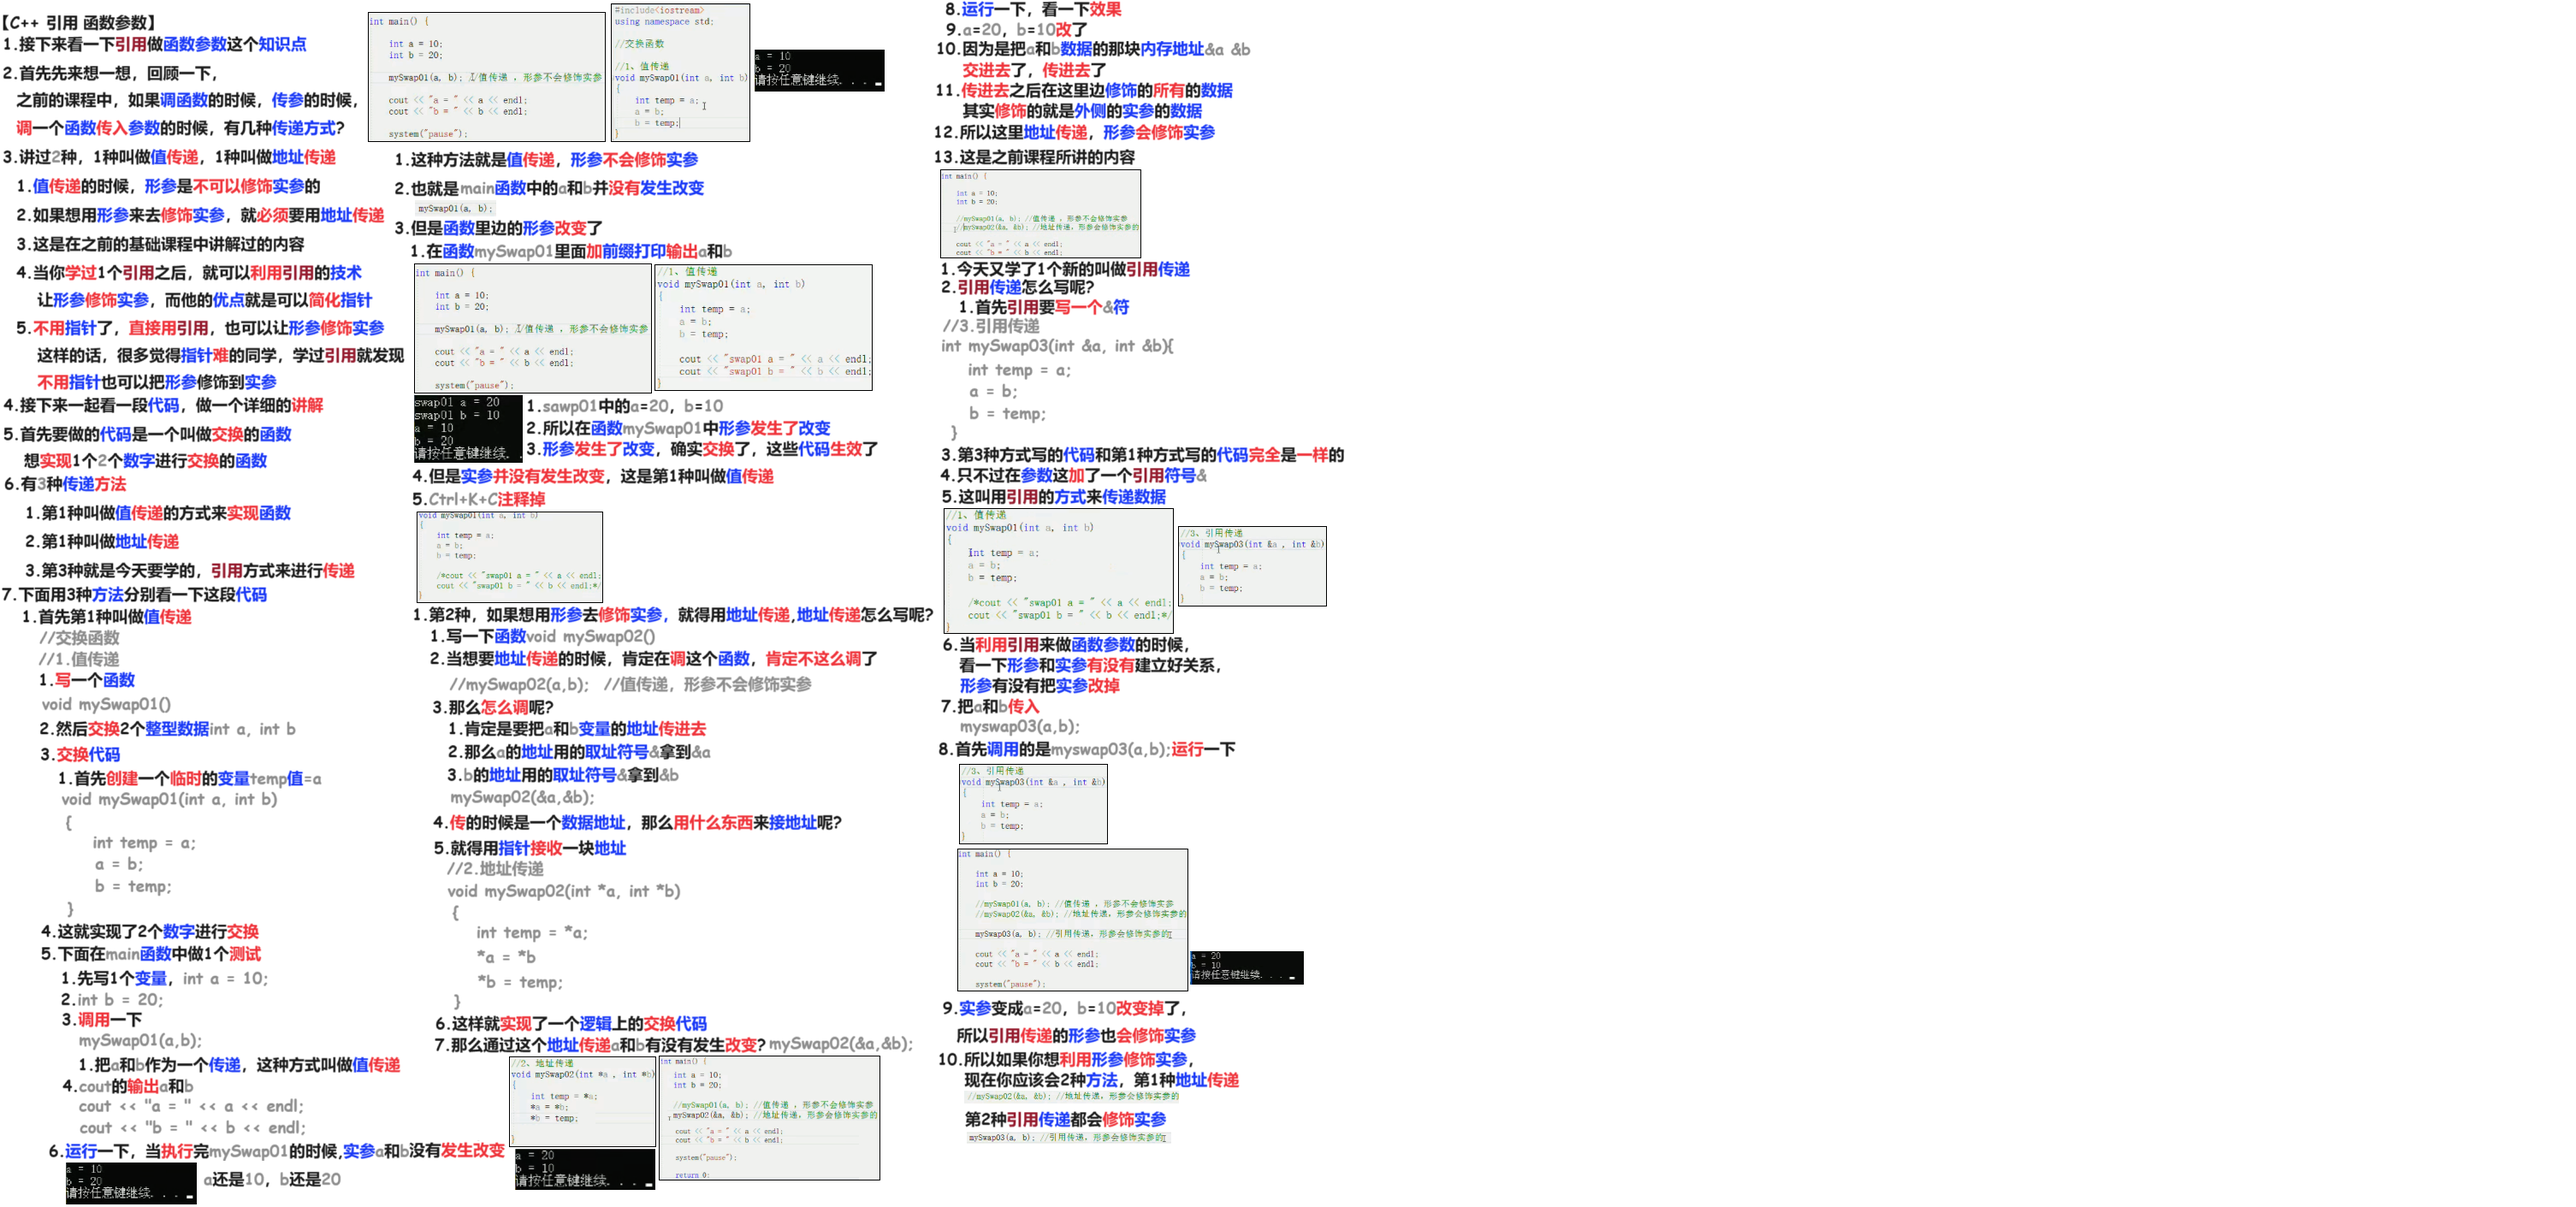
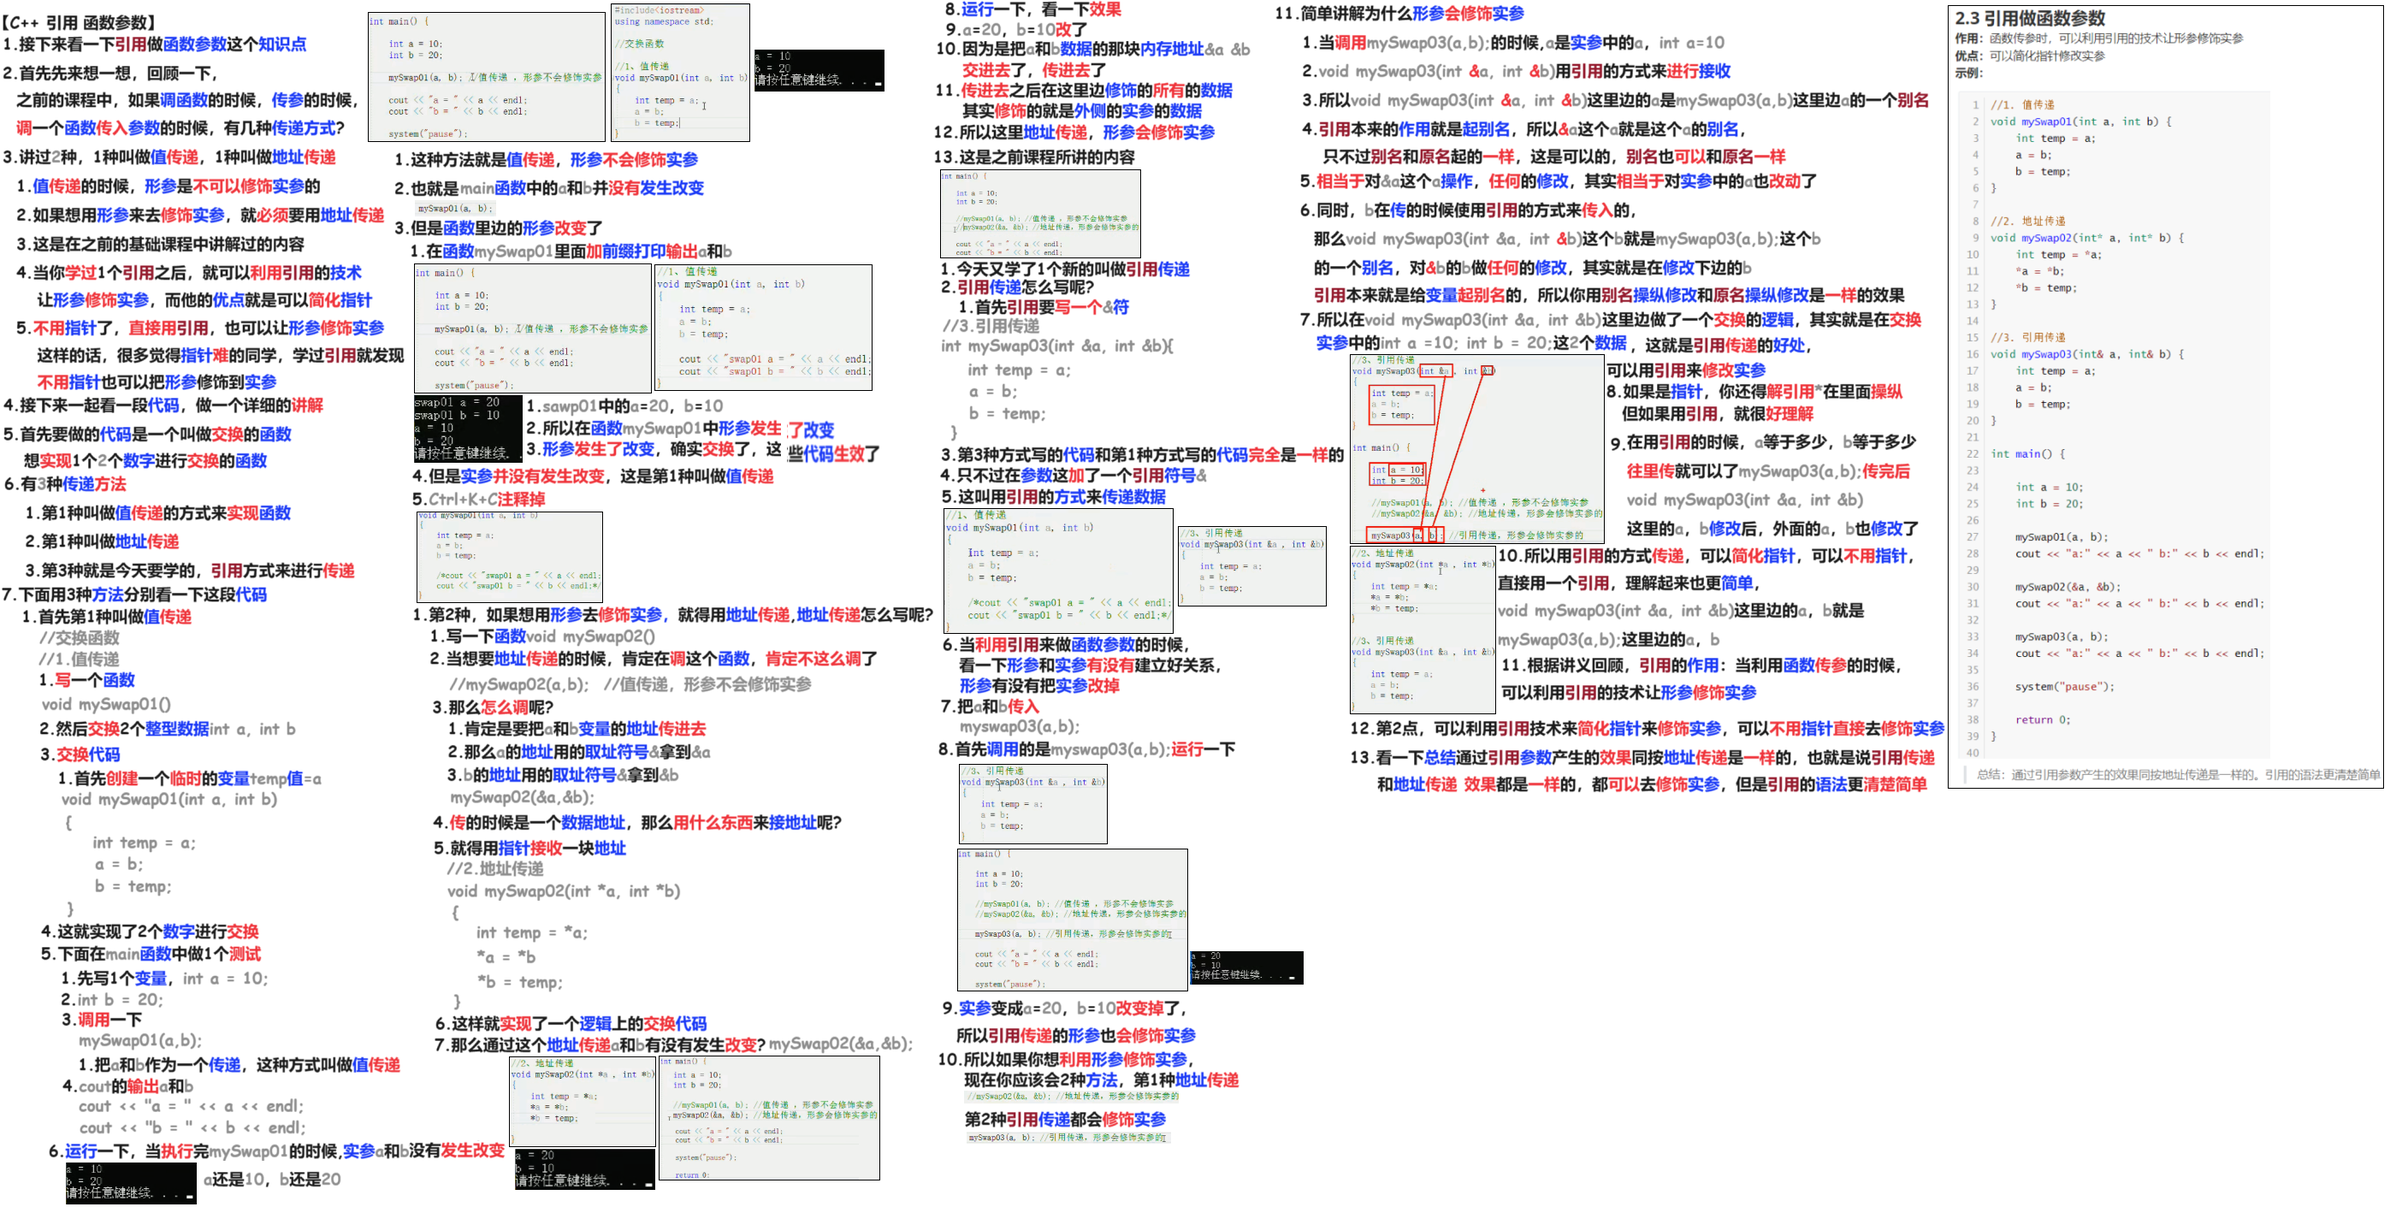
240410

diff --git a/01 初试/02 DS/04 知识点/04 C++/02 引用& 240409/01 黑马 C++ 核心编程/02 Doc.md b/01 初试/02 DS/04 知识点/04 C++/02 引用& 240409/01 黑马 C++ 核心编程/02 Doc.md
@@ -16,3 +16,9 @@
 
 # 03 C++ 引用 函数参数
 
+<img src="https://cvp.oss-cn-shanghai.aliyuncs.com/picgo/202404100753560.png" alt="image-20240410075335664" style="zoom:50%;" />
+
+
+
+# 04 C++ 引用 函数返回值
+
